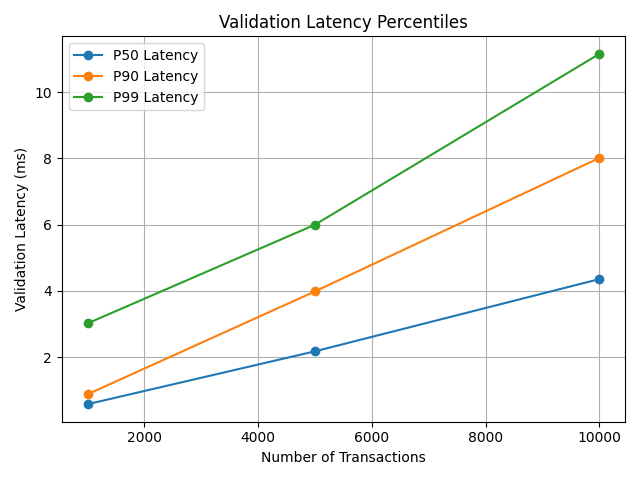
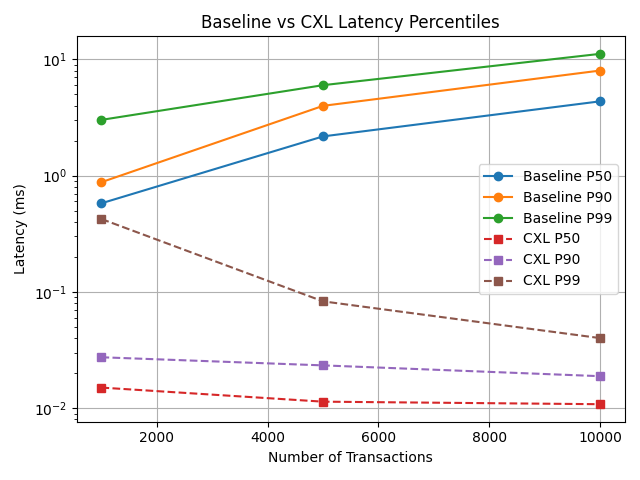
Finalize milestone 2 benchmark results

diff --git a/plots/plot_results.py b/plots/plot_results.py
@@ -10,6 +10,7 @@ throughput = []
 p50 = []
 p90 = []
 p99 = []
+cxl_transactions = []
 cxl_p50 = []
 cxl_p90 = []
 cxl_p99 = []
@@ -23,15 +24,25 @@ with open(csv_file, "r" , newline="") as file:
         p50.append(float(row['p50_latency']) * 1000)
         p90.append(float(row['p90_latency']) * 1000)
         p99.append(float(row['p99_latency']) * 1000)
-        cxl_p50.append(0)
-        cxl_p90.append(0)
-        cxl_p99.append(0)
-
 
 os.makedirs("plots", exist_ok=True)
 
+
+# Read CXL Benchmark results
+cxl_file = "results/raw/benchmark_results_cxl.csv"
+
+with open(cxl_file, "r", newline="") as file:
+    reader = csv.DictReader(file)
+
+    for row in reader:
+        cxl_transactions.append(float(row['transaction']))
+        cxl_p50.append(float(row['cxl_p50_latency']) * 1000)
+        cxl_p90.append(float(row['cxl_p90_latency']) * 1000)
+        cxl_p99.append(float(row['cxl_p99_latency']) * 1000)
+
 # Plot 1: Throughput
 plt.figure()
+
 plt.plot(transactions, throughput, marker='o')
 plt.xlabel("Number of Transactions")
 plt.ylabel("Throughput (transactions/second)")
@@ -41,14 +52,21 @@ plt.tight_layout ()
 plt.savefig("plots/throughput_vs_transactions.png")
 plt.close()
 
-# Plot 2: Validation Latency percentiles
+# Plot 2: Baseline vs CXL Latency Percentiles
 plt.figure()
-plt.plot(transactions, p50, marker='o', label='P50 Latency')
-plt.plot(transactions, p90, marker='o', label='P90 Latency')
-plt.plot(transactions, p99, marker='o', label='P99 Latency')
+
+plt.plot(transactions, p50, marker='o', label='Baseline P50')
+plt.plot(transactions, p90, marker='o', label='Baseline P90')
+plt.plot(transactions, p99, marker='o', label='Baseline P99')
+
+plt.plot(cxl_transactions, cxl_p50, marker='s', linestyle='--', label='CXL P50')
+plt.plot(cxl_transactions, cxl_p90, marker='s', linestyle='--', label='CXL P90')
+plt.plot(cxl_transactions, cxl_p99, marker='s', linestyle='--', label='CXL P99')
+
 plt.xlabel("Number of Transactions")
-plt.ylabel("Validation Latency (ms)")
-plt.title("Validation Latency Percentiles")
+plt.ylabel("Latency (ms)")
+plt.yscale("log")
+plt.title("Baseline vs CXL Latency Percentiles")
 plt.legend()
 plt.grid(True)
 plt.tight_layout()

diff --git a/benchmarks/run_benchmarks.py b/benchmarks/run_benchmarks.py
@@ -53,6 +53,7 @@ def run_test(number_of_transactions):
             transaction.abort() 
         other_transactions.append(transaction)
 
+    if i % 100 == 0:
         trace_logs.append({
             "transaction_id": i,
             "timestamp": timestamp,
@@ -103,7 +104,7 @@ def main():
     output_dir = "results/raw"
     os.makedirs(output_dir, exist_ok=True)
 
-    csv_file = os.path.join(output_dir, "benchmark_results.csv")
+    csv_file = os.path.join(output_dir, "benchmark_results_cxl.csv")
 
     print("Basic Benchmark Results")
     print("-" * 40)
